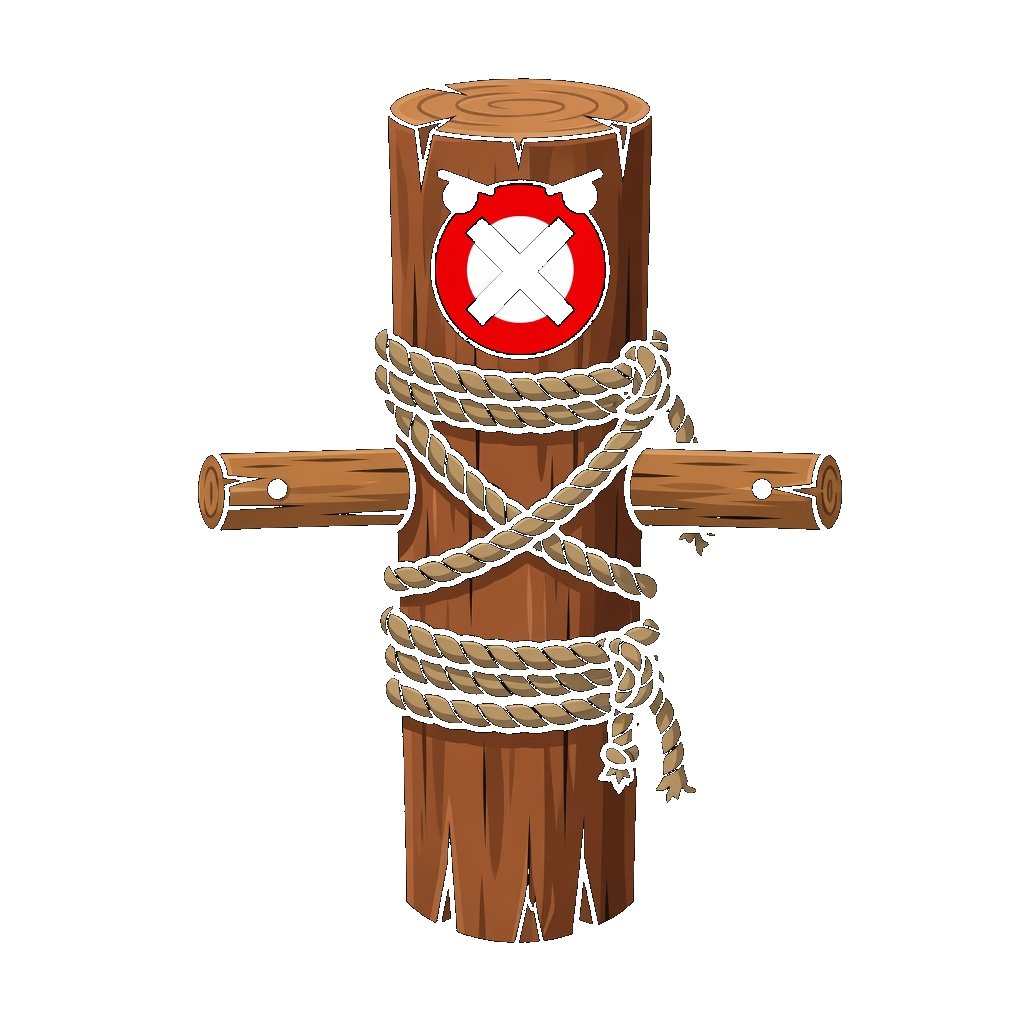
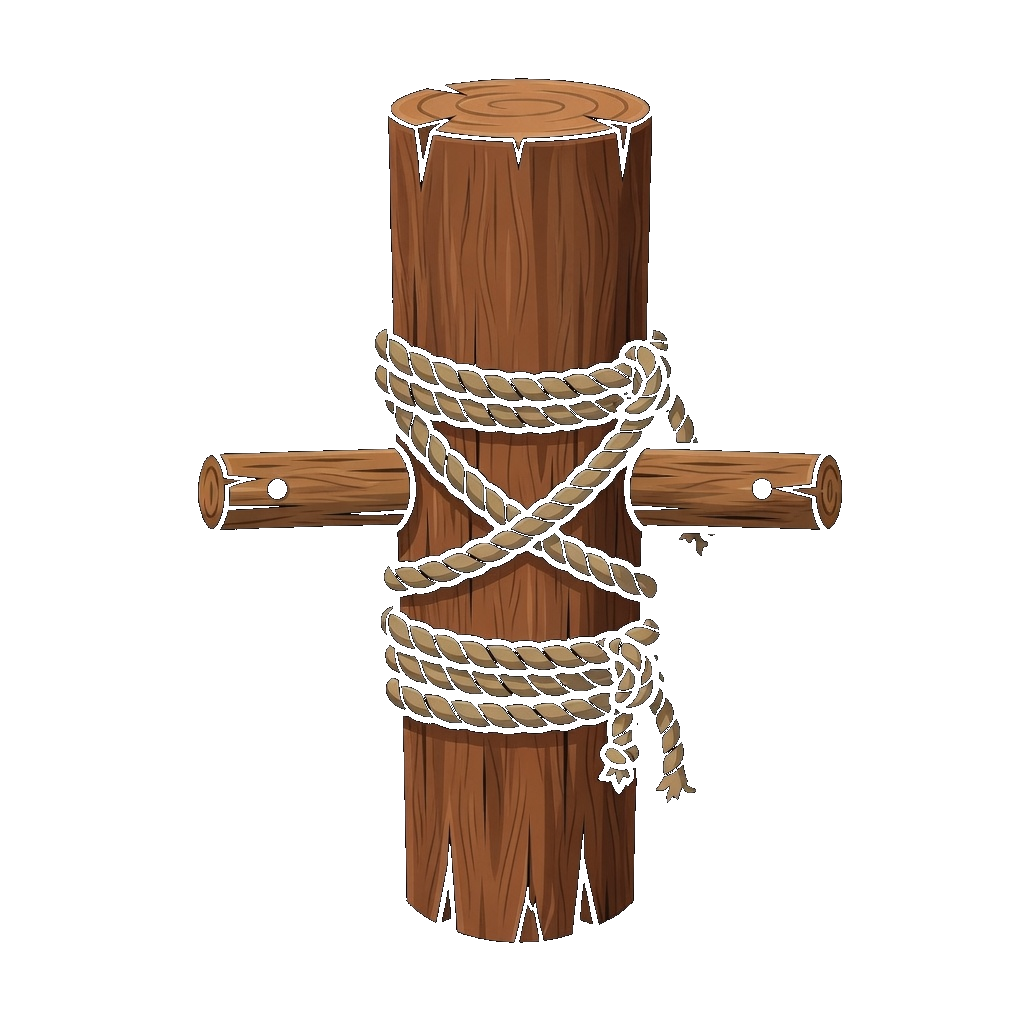
refactor(debug): 精简上帝模式控制台与 WalkMask 阻挡计算
- 整理 GodModeHud 与 GodModeController 调试指令\n- 优化 WalkMask 阻挡掩码计算并移除冗余数据

diff --git a/src/systems/GodModeController.ts b/src/systems/GodModeController.ts
@@ -9,13 +9,11 @@ import {
   isOnLand,
   removeRuntimeTreeObstacleById,
   treeIdOf,
-  treeKindOf,
   type LevelMapDef,
   type MapTree,
 } from '../data/maps';
 import type { GodBrush, GodModeHud } from '../ui/GodModeHud';
 import type { LevelCamera } from '../scenes/LevelCamera';
-import type { WorldMap } from '../world/WorldMap';
 import { createEnemyAt, DEFAULT_SPIDER_SCALE } from './enemyFactory';
 import type { HarvestWorld } from './HarvestWorld';
 
@@ -27,14 +25,11 @@ export type GodModeDeps = {
   sortLayer: Container;
   spiders: Spider[];
   harvest: HarvestWorld;
-  worldMap: WorldMap;
   camera: LevelCamera;
   hud: GodModeHud;
-  nightTreeTint: number;
   spiderScale?: number;
   syncWorldActors: () => void;
   sortDepth: () => void;
-  cullTrees: () => void;
   persistMapDraft: () => void;
 };
 
@@ -89,17 +84,17 @@ export class GodModeController {
     const mapDef = this.deps.getMapDef();
     if (!isOnLand(w.x, w.y, mapDef, 0)) return;
 
-    if (this.brush === 'harvest' || this.brush === 'pine') {
-      this.placeTree(w.x, w.y, this.brush);
+    if (this.brush === 'harvest') {
+      this.placeHarvestTree(w.x, w.y);
       return;
     }
     this.placeEnemy(w.x, w.y, this.brush);
   }
 
-  placeTree(x: number, y: number, kind: 'harvest' | 'pine'): void {
+  placeHarvestTree(x: number, y: number): void {
     const mapDef = this.deps.getMapDef();
-    const id = allocTreeId(kind === 'pine' ? 'pine' : 'harv');
-    const t: MapTree = { x, y, kind, id };
+    const id = allocTreeId('harv');
+    const t: MapTree = { x, y, kind: 'harvest', id };
     mapDef.trees.push(t);
     addRuntimeTreeObstacle({
       x,
@@ -107,14 +102,9 @@ export class GodModeController {
       r: TREE_SOLID_R,
       id,
     });
-
-    if (kind === 'harvest') {
-      this.deps.harvest.mountTree(t);
-      this.deps.syncWorldActors();
-      this.deps.sortDepth();
-    } else {
-      this.remountPineChunks();
-    }
+    this.deps.harvest.mountTree(t);
+    this.deps.syncWorldActors();
+    this.deps.sortDepth();
     this.deps.persistMapDraft();
   }
 
@@ -184,22 +174,10 @@ export class GodModeController {
       }
     }
 
-    let bestPine: MapTree | null = null;
-    let bestPineD = PICK_R;
-    for (const t of mapDef.trees) {
-      if (treeKindOf(t) !== 'pine') continue;
-      const d = Math.hypot(t.x - x, t.y - y);
-      if (d < bestPineD) {
-        bestPineD = d;
-        bestPine = t;
-      }
-    }
-
-    type Pick = { kind: 'tree' | 'enemy' | 'pine'; d: number };
+    type Pick = { kind: 'tree' | 'enemy'; d: number };
     const candidates: Pick[] = [];
     if (bestTree) candidates.push({ kind: 'tree', d: bestTreeD });
     if (bestEnemy) candidates.push({ kind: 'enemy', d: bestEnemyD });
-    if (bestPine) candidates.push({ kind: 'pine', d: bestPineD });
     if (candidates.length === 0) return;
     candidates.sort((a, b) => a.d - b.d);
     const pick = candidates[0]!;
@@ -236,25 +214,6 @@ export class GodModeController {
       bestEnemy.destroy({ children: true });
       spiders.splice(bestEnemyI, 1);
       this.deps.persistMapDraft();
-      return;
     }
-
-    if (pick.kind === 'pine' && bestPine) {
-      const pid = treeIdOf(bestPine);
-      removeRuntimeTreeObstacleById(pid);
-      mapDef.trees = mapDef.trees.filter((t) => treeIdOf(t) !== pid);
-      this.remountPineChunks();
-      this.deps.persistMapDraft();
-    }
-  }
-
-  remountPineChunks(): void {
-    const chunks = this.deps.worldMap.rebuildPlacedTrees();
-    for (const chunk of chunks) {
-      chunk.tint = this.deps.nightTreeTint;
-      this.deps.sortLayer.addChild(chunk);
-    }
-    this.deps.cullTrees();
-    this.deps.sortDepth();
   }
 }

diff --git a/src/entities/Spider.ts b/src/entities/Spider.ts
@@ -153,12 +153,10 @@ export type SpiderOptions = {
   appearance?: Partial<MonsterAppearance>;
   /**
    * 无敌：受击不扣血、永不死亡。
-   * 仍可播放受击姿态（与 passive 配合做木桩）。
    */
   invincible?: boolean;
   /**
-   * 木桩 / 被动：不巡视、不追击、不攻击，不受击退位移。
-   * 仅原地受击抖动。
+   * 木桩 / 被动：不巡视、不追击、不攻击，不受击退，无受击姿态。
    */
   passive?: boolean;
   /**
@@ -202,7 +200,7 @@ export class Spider extends Container implements WorldActor {
   private readonly appearance: MonsterAppearance;
   /** 无敌：受击不扣血 */
   readonly invincible: boolean;
-  /** 被动木桩：不 AI、不击飞位移 */
+  /** 被动木桩：不 AI、不击飞、无受击反馈 */
   readonly passive: boolean;
   /** 绝对固定：不被 solid 挤走，每帧钉回出生点 */
   readonly immovable: boolean;
@@ -428,16 +426,8 @@ export class Spider extends Container implements WorldActor {
       this.healthBar.applyDelta(-Math.abs(hit.damage));
     }
 
-    // 木桩：只抖一下，不位移、不空中转圈、不切 AI
+    // 木桩：完全无反馈（不抖、不转、不位移、不切 AI）
     if (this.passive) {
-      this.blastKnock = Math.max(
-        this.blastKnock,
-        Math.min(1.0, hit.poseStrength * 0.65),
-      );
-      if (hit.dirX !== 0) {
-        this.facing = hit.dirX < 0 ? -1 : 1;
-        this.applyFacingToSprite();
-      }
       return true;
     }
 
@@ -488,7 +478,7 @@ export class Spider extends Container implements WorldActor {
     const dt = deltaMS / 1000;
     this.healthBar.update(deltaMS);
 
-    // 木桩 / 固定体：钉死出生点，只做受击姿态
+    // 木桩 / 固定体：钉死出生点，无姿态反馈
     if (this.passive || this.immovable) {
       this.worldX = this.homeX;
       this.worldY = this.homeY;
@@ -496,7 +486,7 @@ export class Spider extends Container implements WorldActor {
       this.knock.velY = 0;
       this.knock.velZ = 0;
       this.knock.height = 0;
-      this.updatePose(dt, false);
+      this.blastKnock = 0;
       return { moved: false, attackHit: null };
     }
 

diff --git a/src/world/WorldMap.ts b/src/world/WorldMap.ts
@@ -6,18 +6,12 @@ import {
   hitsTreeObstacle,
   isOcean,
   landRectOf,
-  normalizeTrees,
   syncRuntimeTreesFromDef,
-  treeIdOf,
-  treeKindOf,
 } from '../data/maps/walkMask';
 import type { Vec2 } from '../utils/math';
 import { fbm2D, makeSeamlessNoiseTexture } from '../utils/noiseTexture';
 import { generateOrganicContour, OceanLayer } from './OceanLayer';
-import {
-  TreeRowChunk,
-  type TreePlant,
-} from './TreeRowChunk';
+import { TreeRowChunk } from './TreeRowChunk';
 
 // 布局常量 re-export，保持旧 import 路径可用
 export {
@@ -552,46 +546,11 @@ export class WorldMap extends Container {
   }
 
   /**
-   * 仅绘制 kind=pine 的静态树（harvest 由 HarvestableTree 实体画）。
-   * 按 worldY 量化分行 + 水平邻近合并 chunk。
+   * 静态松树 chunk 已废弃（pine 不再使用）。
+   * 可砍树由 HarvestableTree 实体绘制；保留空实现以兼容 rebuildPlacedTrees。
    */
   private spawnPlacedTreeChunks(): void {
-    const pines = normalizeTrees(this.def).filter(
-      (t) => treeKindOf(t) === 'pine',
-    );
-    if (pines.length === 0) return;
-
-    /** 同一「行」：worldY 量化到 4px，避免浮点拆碎 */
-    const ROW_Q = 4;
-    const byRow = new Map<number, typeof pines>();
-    for (const t of pines) {
-      const key = Math.round(t.y / ROW_Q) * ROW_Q;
-      const list = byRow.get(key) ?? [];
-      list.push(t);
-      byRow.set(key, list);
-    }
-
-    const CHUNK_W = 1152;
-    for (const [, list] of byRow) {
-      list.sort((a, b) => a.x - b.x);
-      const y =
-        list.reduce((s, t) => s + t.y, 0) / Math.max(1, list.length);
-      for (let i = 0; i < list.length; ) {
-        const chunk: TreePlant[] = [];
-        const x0 = list[i]!.x;
-        while (i < list.length && list[i]!.x < x0 + CHUNK_W) {
-          const t = list[i]!;
-          const shade =
-            Math.abs(Math.round(t.x) + Math.round(t.y) + treeIdOf(t).length) %
-            3;
-          chunk.push({ x: t.x, shade });
-          i++;
-        }
-        if (chunk.length > 0) {
-          this.treeChunks.push(new TreeRowChunk(y, chunk));
-        }
-      }
-    }
+    // no-op
   }
 }
 

diff --git a/src/ui/GodModeHud.ts b/src/ui/GodModeHud.ts
@@ -3,7 +3,6 @@ import { drawPineLocal } from '../world/PineTree';
 
 export type GodBrush =
   | 'harvest'
-  | 'pine'
   | 'spider'
   | 'flame-flower'
   | 'wooden-dummy'
@@ -69,10 +68,7 @@ export class GodModeHud extends Container {
       version: 'v1.0',
       name: '基础植被',
       collapsed: false,
-      items: [
-        { brush: 'harvest', label: '可砍树' },
-        { brush: 'pine', label: '松树' },
-      ],
+      items: [{ brush: 'harvest', label: '可砍树' }],
     },
     {
       id: 'v1.1',
@@ -420,22 +416,19 @@ export class GodModeHud extends Container {
       .stroke({ width: 1, color: 0x483a63, alpha: 0.5 });
     iconContainer.addChild(iconBg);
 
-    if (brush === 'harvest' || brush === 'pine') {
+    if (brush === 'harvest') {
       const treeGfx = new Graphics();
       drawPineLocal(treeGfx, 0, 0, 0);
       treeGfx.position.set(16, 27);
       treeGfx.scale.set(0.32);
       iconContainer.addChild(treeGfx);
-
-      if (brush === 'harvest') {
-        // 可砍树标记：右下角斧头/资源图标印记
-        const badge = new Graphics();
-        badge
-          .circle(25, 25, 5.5)
-          .fill({ color: 0xd69a19 })
-          .stroke({ width: 1, color: 0xffffff });
-        iconContainer.addChild(badge);
-      }
+      // 可砍树标记：右下角资源印记
+      const badge = new Graphics();
+      badge
+        .circle(25, 25, 5.5)
+        .fill({ color: 0xd69a19 })
+        .stroke({ width: 1, color: 0xffffff });
+      iconContainer.addChild(badge);
     } else if (
       brush === 'spider' ||
       brush === 'flame-flower' ||

diff --git a/src/data/maps/walkMask.ts b/src/data/maps/walkMask.ts
@@ -362,6 +362,7 @@ export function treeIdOf(t: MapTree): string {
 
 /**
  * 规范化树列表：世界坐标、陆地过滤、近距去重、补 id。
+ * 只保留可砍树（harvest）；松树 pine 已废弃，加载时丢弃。
  * 兼容旧草稿 `{ c, r }`（需 mapSize + cellSize）。
  */
 export function normalizeTrees(def: LevelMapDef): MapTree[] {
@@ -371,6 +372,8 @@ export function normalizeTrees(def: LevelMapDef): MapTree[] {
   for (const raw of def.trees) {
     const t = coerceTree(raw, def);
     if (!t) continue;
+    // 不再使用静态松树
+    if (treeKindOf(t) === 'pine') continue;
     if (!isOnLand(t.x, t.y, def, 0)) continue;
     const id = treeIdOf(t);
     if (seenIds.has(id)) continue;
@@ -391,7 +394,7 @@ export function normalizeTrees(def: LevelMapDef): MapTree[] {
     out.push({
       x: t.x,
       y: t.y,
-      kind: treeKindOf(t),
+      kind: 'harvest',
       id,
     });
   }

diff --git a/src/scenes/LevelScene.ts b/src/scenes/LevelScene.ts
@@ -244,13 +244,10 @@ export class LevelScene extends Container implements GameScene {
       sortLayer: this.sortLayer,
       spiders: this.spiders,
       harvest: this.harvest,
-      worldMap: this.worldMap,
       camera: this.camera,
       hud: this.godHud,
-      nightTreeTint: NIGHT_TREE_TINT,
       syncWorldActors: () => this.syncWorldActors(),
       sortDepth: () => this.sortDepth(),
-      cullTrees: () => this.cullTrees(),
       persistMapDraft: () => this.persistMapDraft(),
     });
     this.godHud.setBrush(this.god.brush);

diff --git a/src/data/maps/types.ts b/src/data/maps/types.ts
@@ -10,10 +10,10 @@ export type EnemySpawn = {
 
 /**
  * 树上种类：
- * - pine：静态装饰 + solid（不可砍）
  * - harvest：可砍实体（运行时 HarvestableTree）
+ * - pine：已废弃（normalize 时丢弃；旧草稿兼容）
  */
-export type TreeKind = 'pine' | 'harvest';
+export type TreeKind = 'harvest' | 'pine';
 
 /**
  * 摆放的一棵树（世界坐标，脚底）。

diff --git a/src/systems/HarvestWorld.ts b/src/systems/HarvestWorld.ts
@@ -40,8 +40,7 @@ export class HarvestWorld {
   constructor(private readonly hooks: HarvestWorldHooks) {}
 
   /**
-   * 从地图 def.trees 刷可砍树（kind=harvest 或默认）。
-   * pine 由 WorldMap 静态绘制。
+   * 从地图 def.trees 刷可砍树（normalize 后仅 harvest）。
    */
   spawnFromMap(mapDef: LevelMapDef): void {
     const trees = normalizeTrees(mapDef);

diff --git a/src/entities/WoodenDummy.ts b/src/entities/WoodenDummy.ts
@@ -6,7 +6,7 @@ export type WoodenDummyOptions = Pick<SpiderOptions, 'scale'>;
 
 /**
  * 训练木桩：无敌、出生点绝对固定，只挨打不反击。
- * 受击有抖动反馈，无血条、不被挤走、无 AI。
+ * 无血条、无受击反馈、不被挤走、无 AI。
  */
 export class WoodenDummy extends Spider {
   constructor(
